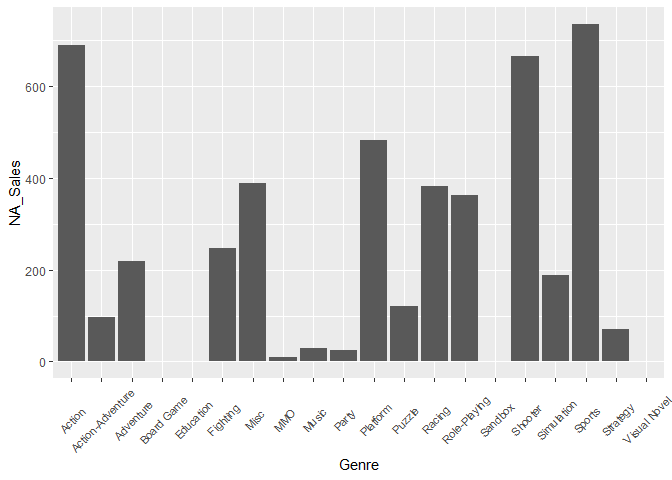
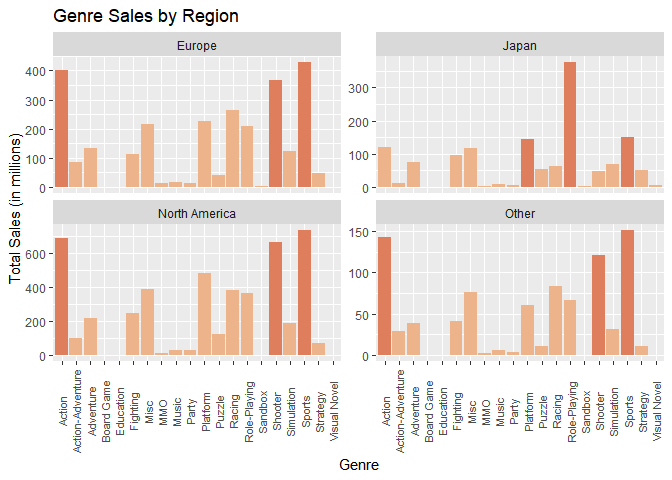
updated graph aesthetics

diff --git a/README.md b/README.md
@@ -98,6 +98,8 @@ head(data)
 library(dplyr)
 ```
 
+    ## Warning: package 'dplyr' was built under R version 4.4.3
+
     ## 
     ## Attaching package: 'dplyr'
 
@@ -272,10 +274,17 @@ q1_genre
     ## 20 Board Game             0.33
 
 ``` r
-ggplot(q1_genre, aes(x = Genre, weight= totalSales)) +
-  geom_bar() +
+highlight_colors <- c(
+  "yes"  = "#de7e5d",  # Pastel red
+  "no"      = "#edb48c"  # Pastel blue
+)
+
+q1_data %>% mutate(highlight = if_else(Genre %in% c("Sports", "Action", "Shooter"), "yes", "no")) %>% ggplot( aes(x = Genre, weight= Global_Sales, fill=highlight)) +
+  geom_bar(show.legend = FALSE) +
+  scale_fill_manual(values = highlight_colors) +
   theme(axis.text.x = element_text(angle = 90)) +
-  ylab("Total Sales")
+  ylab("Total Sales") + 
+  ggtitle("Global Sales by Genre")
 ```
 
 ![](README_files/figure-gfm/unnamed-chunk-7-1.png)<!-- -->
@@ -553,40 +562,61 @@ q1_data %>% filter(between(Year, 2005, 2015)) %>% ggplot(aes(x = Year, y = Globa
 ### Question 8: What is the most popular genre by area?
 
 ``` r
-q1_data %>% ggplot(aes(x = Genre, y = NA_Sales)) + geom_col() + theme(axis.text.x = element_text(size = 8, angle = 45, vjust=0.5))
-```
+genre_reigon_sales <- q1_data %>%
+  group_by(Genre) %>%
+  summarise(
+    NA_Sales = sum(NA_Sales, na.rm = TRUE),
+    PAL_Sales = sum(PAL_Sales, na.rm = TRUE),
+    JP_Sales = sum(JP_Sales, na.rm = TRUE),
+    Other_Sales = sum(Other_Sales, na.rm = TRUE)
+  ) %>%
+  pivot_longer(
+    cols = c(NA_Sales, PAL_Sales, JP_Sales, Other_Sales),
+    names_to = "Region",
+    values_to = "Sales"
+  ) %>%
+  mutate(
+    Region = recode(Region,
+                    "NA_Sales" = "North America",
+                    "PAL_Sales" = "Europe",
+                    "JP_Sales" = "Japan",
+                    "Other_Sales" = "Other"),
+    highlight = if_else(
+      ((Region == "Japan" & (Genre %in% c("Role-Playing", "Platform", "Sports"))) |
+         (Region != "Japan" & (Genre %in% c("Sports", "Action", "Shooter")))
+         ),"yes", "no" )
+  )
 
-    ## Warning: Removed 6645 rows containing missing values or values outside the scale range
-    ## (`geom_col()`).
+highlight_colors <- c(
+  "yes"  = "#de7e5d",  # Pastel red
+  "no"      = "#edb48c"  # Pastel blue
+)
+
+
+ggplot(genre_reigon_sales, aes(x = Genre, y = Sales, fill = highlight)) +
+  geom_col(show.legend = FALSE) +
+  theme(axis.text.x = element_text(size = 8, angle = 90, vjust=0.5)) + 
+  scale_fill_manual(values = highlight_colors) +
+  facet_wrap(~ Region, scales = "free_y") +
+  labs(
+    title = "Genre Sales by Region",
+    x = "Genre",
+    y = "Total Sales (in millions)"
+  ) 
+```
 
 ![](README_files/figure-gfm/unnamed-chunk-17-1.png)<!-- -->
 
 ``` r
-q1_data %>% ggplot(aes(x = Genre, y = PAL_Sales)) + geom_col() + theme(axis.text.x = element_text(size = 8, angle = 45, vjust=0.5))
+q1_data %>% mutate(highlight = if_else(Genre %in% c("Sandbox", "Party", "Action-Adventure"), "yes", "no")) %>% ggplot( aes(x = Genre, y=Global_Sales, fill=highlight)) +
+  geom_bar(stat = "summary", fun = "mean", show.legend=FALSE) +
+  scale_fill_manual(values = highlight_colors) +
+  theme(axis.text.x = element_text(angle = 90)) +
+  ylab("Total Sales (in millions)") + 
+  ggtitle("Average Sales by Genre")
 ```
 
-    ## Warning: Removed 6282 rows containing missing values or values outside the scale range
-    ## (`geom_col()`).
-
-![](README_files/figure-gfm/unnamed-chunk-17-2.png)<!-- -->
-
-``` r
-q1_data %>% ggplot(aes(x = Genre, y = JP_Sales)) + geom_col() + theme(axis.text.x = element_text(size = 8, angle = 45, vjust=0.5))
-```
-
-    ## Warning: Removed 12628 rows containing missing values or values outside the scale range
-    ## (`geom_col()`).
-
-![](README_files/figure-gfm/unnamed-chunk-17-3.png)<!-- -->
-
-``` r
-q1_data %>% ggplot(aes(x = Genre, y = Other_Sales)) + geom_col() + theme(axis.text.x = element_text(size = 8, angle = 45, vjust=0.5))
-```
-
-    ## Warning: Removed 3937 rows containing missing values or values outside the scale range
-    ## (`geom_col()`).
-
-![](README_files/figure-gfm/unnamed-chunk-17-4.png)<!-- -->
+![](README_files/figure-gfm/unnamed-chunk-18-1.png)<!-- -->
 
 ## Conclusion
 
